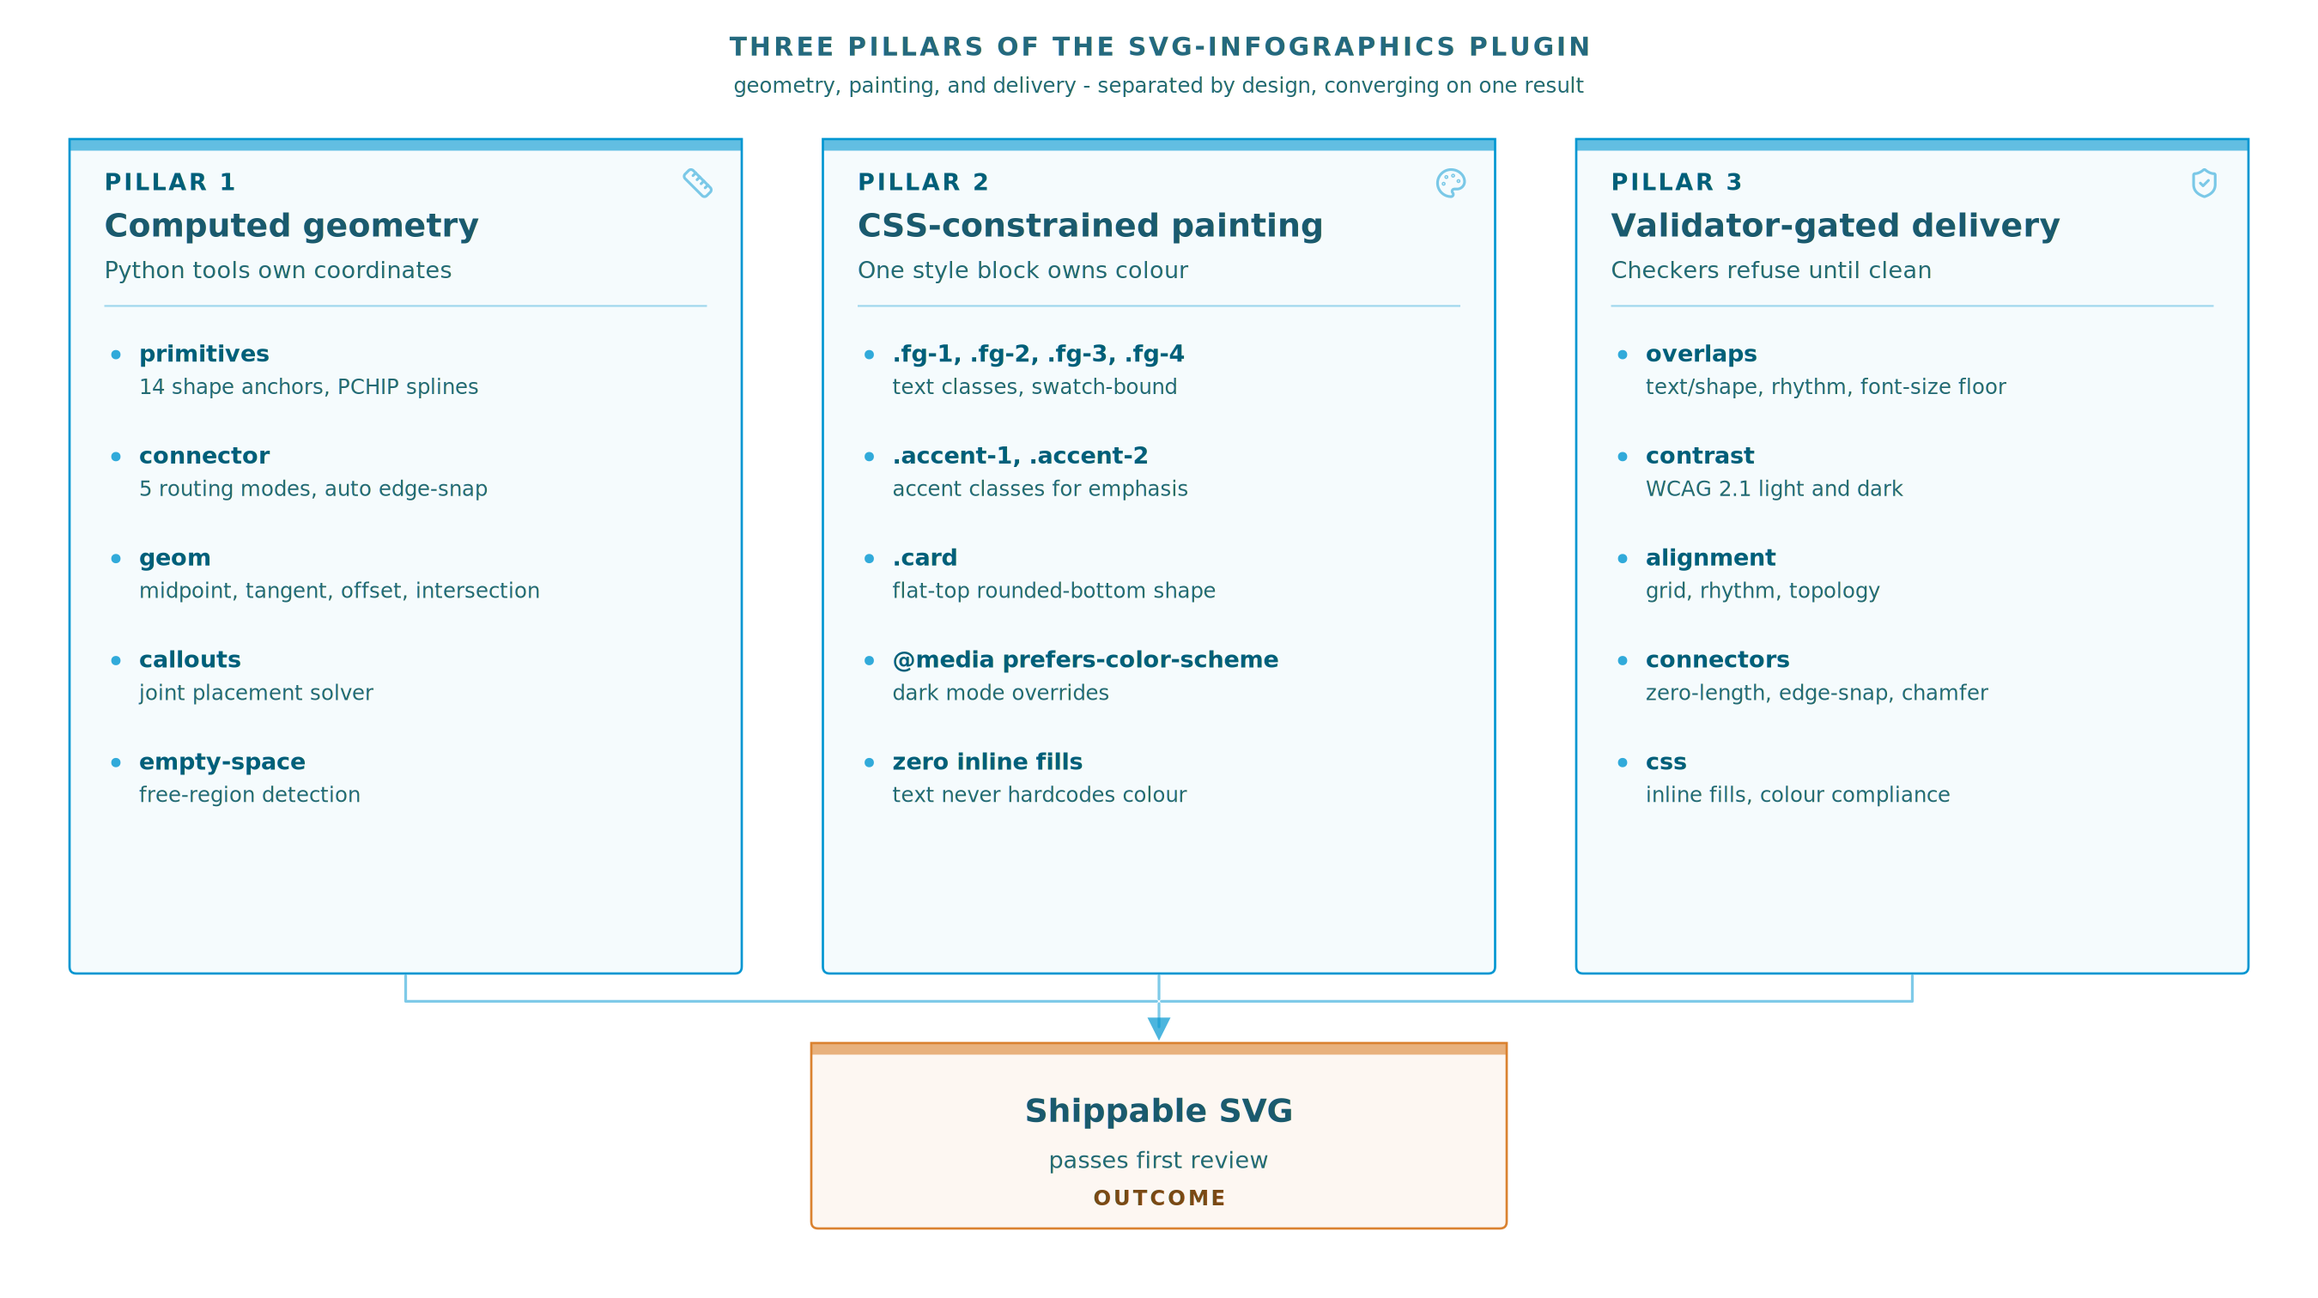
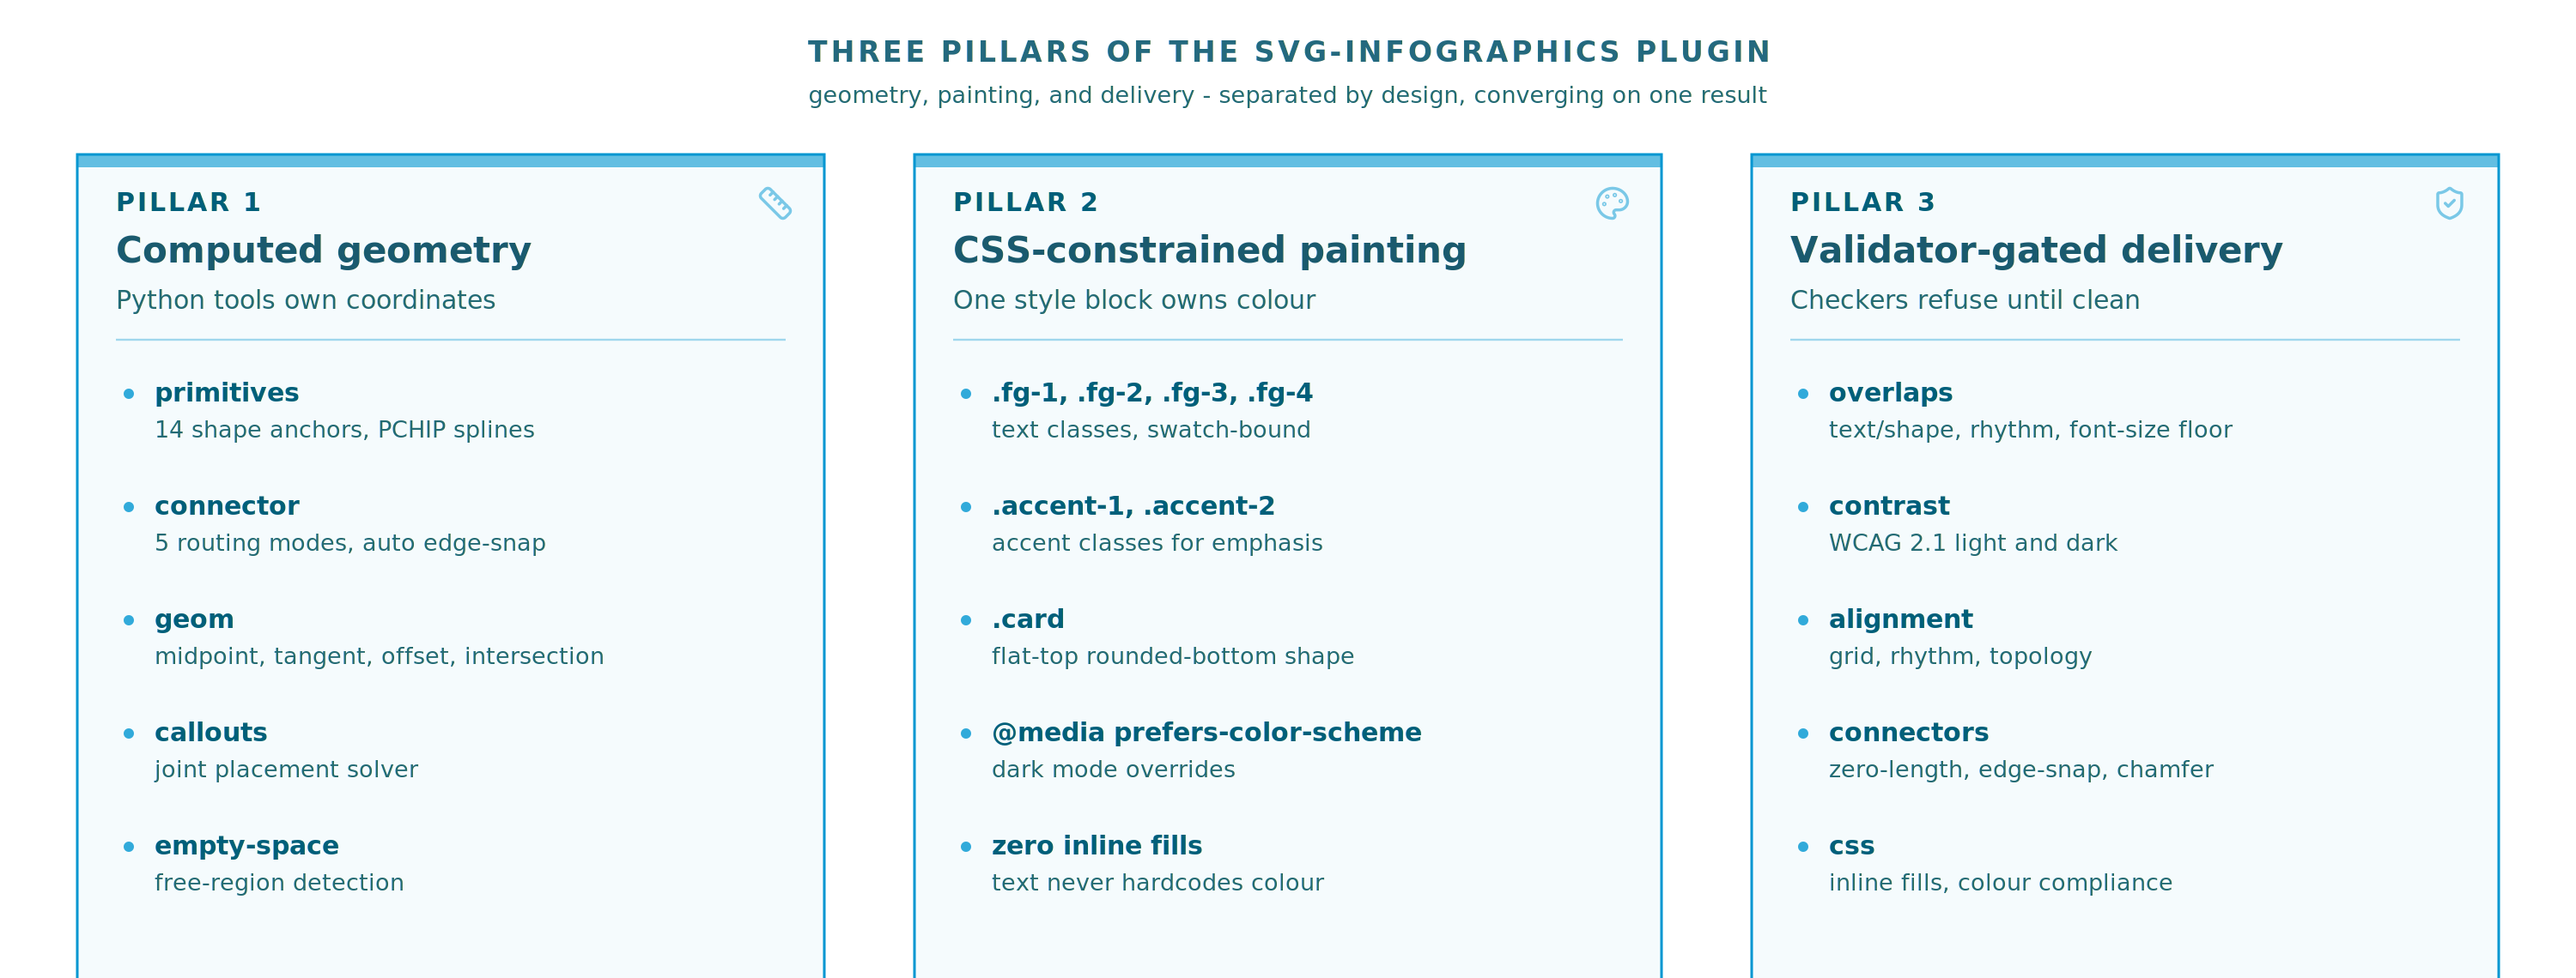
docs(article_02): integrate all images, remove Inkscape refs, fix viewBoxes
Added references to 10-primitives-gallery, 15-design-app-analogy,
16-algorithm-stack, 17-self-documenting. Replaced all Inkscape trademark
mentions with generic "design application" phrasing. Fixed
02-three-pillars.svg viewBox from 560 to 380 (214px wasted space).
Title finalized as "Stop Fixing Your AI's SVGs".

diff --git a/docs/medium/article_02_svg-infographics.md b/docs/medium/article_02_svg-infographics.md
@@ -30,9 +30,9 @@ read_time: "10 min read"
 
 When you ask an LLM to "draw an SVG infographic", you are asking it to be an SVG *coder*. The model opens an invisible text editor and starts typing XML: `<rect x="50" y="80" width="200" height="120"/>`, then a `<text>` element with a guessed y-offset, then a `<line>` with hand-picked endpoints. Every coordinate is a token prediction. Nothing snaps to anything. There is no grid, no alignment guide, no ruler. The model is drawing blind.
 
-A human designer would never work this way. Open Inkscape, Figma, or Illustrator and you get snapping, smart connectors, alignment guides, a grid overlay, a colour picker bound to a swatch, and a layer panel. You do not type coordinates - you place shapes and the application computes the geometry. The design tool is the difference between a designer and someone writing PostScript by hand.
+A human designer would never work this way. Open any vector design application and you get snapping, smart connectors, alignment guides, a grid overlay, a colour picker bound to a swatch, and a layer panel. You do not type coordinates - you place shapes and the application computes the geometry. The design tool is the difference between a designer and someone writing PostScript by hand.
 
-**The svg-infographics plugin is that design tool - built for AI agents.** It gives the LLM the same affordances a human gets from Inkscape: snap-to-grid placement, computed connectors that route around obstacles, alignment enforcement, theme-bound colours, and a validation panel that refuses broken output. The agent becomes the *designer* - deciding what to show, where cards go, which elements connect - while the tool handles the geometry, the colours, and the quality gate.
+**The svg-infographics plugin is that design tool - built for AI agents.** It gives the LLM the same affordances a human gets from a design application: snap-to-grid placement, computed connectors that route around obstacles, alignment enforcement, theme-bound colours, and a validation panel that refuses broken output. The agent becomes the *designer* - deciding what to show, where cards go, which elements connect - while the tool handles the geometry, the colours, and the quality gate.
 
 The result, across sixty-four production examples, is SVG that ships on the first pass. No hand-editing. No coordinate chasing. No 30-minute correction loops.
 
@@ -44,13 +44,13 @@ Every vector graphics application provides five things that make design possible
 
 **Snap-to-grid.** A designer drags a card and it locks to the nearest grid line. An LLM typing `x="147"` has no grid. The offset drifts element by element, and by the tenth card the rhythm is gone. Fix time: 5-15 minutes per image.
 
-**Smart connectors.** In Inkscape, you drag an arrow from card A to card B and the application routes it, adds the arrowhead, and adjusts when you move a card. An LLM guesses two endpoints, gets the arrowhead angle wrong, and produces a line that ends three pixels short of its target. Fix time: 5-10 minutes per arrow.
+**Smart connectors.** In a design app, you drag an arrow from card A to card B and the application routes it, adds the arrowhead, and adjusts when you move a card. An LLM guesses two endpoints, gets the arrowhead angle wrong, and produces a line that ends three pixels short of its target. Fix time: 5-10 minutes per arrow.
 
 **Colour swatches.** A designer picks from a palette. An LLM types `fill="#000000"` because it is a cheap token. The colour disappears in dark mode, and now you need a full `<style>` block with `@media (prefers-color-scheme: dark)` overrides. Fix time: 10-20 minutes.
 
 **Alignment guides.** Drag three cards and they centre-align automatically. An LLM types three independent `x` values and they are never quite equal. Fix time: 5-10 minutes for each alignment pass.
 
-**A quality gate.** Inkscape shows you the result live. An LLM ships XML and hopes for the best. You open the SVG, see the problems, go back to the model, ask for fixes, get new problems. Fix time: the entire correction loop - 30 to 90 minutes per image.
+**A quality gate.** A design app shows you the result live. An LLM ships XML and hopes for the best. You open the SVG, see the problems, go back to the model, ask for fixes, get new problems. Fix time: the entire correction loop - 30 to 90 minutes per image.
 
 For a six-image article, that is **3-6 hours of hand-editing** that adds no creative value. The plugin replaces it with a single supervised pass through a structured workflow.
 
@@ -62,7 +62,7 @@ The plugin ships as `stellars-claude-code-plugins`, exposing a unified `svg-info
 
 **Design tools (the agent's "drawing canvas"):**
 
-| Tool | Inkscape equivalent |
+| Tool | Design app equivalent |
 |------|-------------------|
 | `primitives` | Shape palette - rect, circle, hexagon, star, arc, cube, cylinder, sphere, plus PCHIP spline curves. Returns exact anchors and paste-ready snippets |
 | `connector` | Smart connector - five routing modes with snap-to-edge, auto-routing around obstacles, arrowhead computation |
@@ -82,7 +82,13 @@ The plugin ships as `stellars-claude-code-plugins`, exposing a unified `svg-info
 | `css` | Inline fills, missing dark-mode overrides, forbidden colours |
 | `collide` | Pairwise connector intersection with near-miss detection |
 
-The agent never types a coordinate. It calls `primitives rect --x 50 --y 80 --w 200 --h 120` and gets the rect plus its named anchors (top-center, right-mid, bottom-left, etc). It calls `connector --mode l-chamfer --src-rect ... --tgt-rect ... --start-dir E --end-dir S` and gets a fully routed path with arrowhead polygons in world coordinates. The tool does the maths. The agent does the design.
+The agent never types a coordinate. It calls `primitives rect --x 50 --y 80 --w 200 --h 120` and gets the rect plus its named anchors (top-center, right-mid, bottom-left, etc). Fourteen shape types are computed this way - from basic rectangles to isometric cubes and PCHIP spline curves:
+
+![Fourteen shape primitives computed by the tool](images_article_02/10-primitives-gallery.svg)
+
+It calls `connector --mode l-chamfer --src-rect ... --tgt-rect ... --start-dir E --end-dir S` and gets a fully routed path with arrowhead polygons in world coordinates. The tool does the maths. The agent does the design.
+
+![Design application features mapped to CLI equivalents](images_article_02/15-design-app-analogy.svg)
 
 ![Twelve shipped tools split into calculators and validators](images_article_02/04-tools-inventory.svg)
 
@@ -98,7 +104,7 @@ The key is Phase 2. The grid exists *before* anything is drawn. Every subsequent
 
 ## Smart connectors that route around obstacles
 
-In Inkscape, you drag a connector between two shapes and it routes around everything in between. The plugin gives the agent the same capability.
+In a desktop design application, you drag a connector between two shapes and it routes around everything in between. The plugin gives the agent the same capability.
 
 The `connector` tool has five routing modes - from simple to complex:
 
@@ -110,7 +116,7 @@ The `connector` tool has five routing modes - from simple to complex:
 
 ![Four point-to-point connector modes](images_article_02/11-connector-modes.svg)
 
-The auto-routing mode is where the "Inkscape for agents" metaphor becomes concrete. Pass `--auto-route --svg scene.svg` and the tool reads the entire SVG, rasterises every shape as an obstacle, runs **grid A*** with turn penalty to find a multi-elbow path that avoids collisions, and returns a chamfered connector with clean stems behind the arrowhead. Container-scoped routing (`--container-id card-A`) clips the route to a specific shape's interior - exactly like Inkscape's "route within group" behaviour.
+The auto-routing mode is where the "design application for agents" metaphor becomes concrete. Pass `--auto-route --svg scene.svg` and the tool reads the entire SVG, rasterises every shape as an obstacle, runs **grid A*** with turn penalty to find a multi-elbow path that avoids collisions, and returns a chamfered connector with clean stems behind the arrowhead. Container-scoped routing (`--container-id card-A`) clips the route to a specific shape's interior - exactly like a "route within group" feature in a desktop design tool.
 
 **Straight-line collapse**: when src and tgt are nearly aligned, both endpoints slide along their edges to a shared coordinate and the L degenerates to a straight segment. The smaller geometry stays put; the larger absorbs the slide. The agent never has to think about this - the tool handles it.
 
@@ -160,7 +166,7 @@ The `charts` subcommand wraps pygal for clean, CSS-themeable SVG charts. The cal
 
 The quality panel's key discipline: every finding is a real defect until the author individually classifies it as **Fixed**, **Accepted** (intentional violation), or **Checker limitation** (tool cannot resolve). No bulk dismissals. The default is fix.
 
-This matters because LLMs, given the choice, dismiss every warning. The fail-first rule inverts the default: the checker is right unless the author names which of three exceptions applies. Exactly like Inkscape's preflight panel refusing to export a PDF with missing fonts - the tool protects the designer from shipping broken work.
+This matters because LLMs, given the choice, dismiss every warning. The fail-first rule inverts the default: the checker is right unless the author names which of three exceptions applies. Exactly like a preflight panel refusing to export a PDF with missing fonts - the tool protects the designer from shipping broken work.
 
 ![Fail-first validation](images_article_02/05-failfirst-flow.svg)
 
@@ -184,6 +190,8 @@ The plugin's SVGs carry their own documentation. Every file starts with a struct
 
 This means the graphics are **reworkable long after creation**. An agent - or a human - can open the SVG months later, read the comment block, understand the intent, and update the content without reverse-engineering the layout. The file is its own specification. That is the difference between a graphic and a graphic asset.
 
+![SVG files carry intent, CSS classes, and named elements for future reworking](images_article_02/17-self-documenting.svg)
+
 ## Built on algorithms, not heuristics
 
 The plugin does not use prompt tricks. Every capability is backed by a real algorithm:
@@ -196,7 +204,9 @@ The plugin does not use prompt tricks. Every capability is backed by a real algo
 - **Connected-component labelling** on binary obstacle masks for free-island detection
 - **Shapely geometric operations** for pairwise connector collision detection with tolerance buffers
 
-These are the same algorithms that power Inkscape's snapping engine, Figma's auto-layout, and professional EDA routers. The plugin brings them to the agent's toolkit as CLI calls.
+These are the same algorithms that power design application snapping engines, auto-layout systems, and professional EDA routers. The plugin brings them to the agent's toolkit as CLI calls.
+
+![Algorithm stack powering the plugin](images_article_02/16-algorithm-stack.svg)
 
 ## Limitations
 
